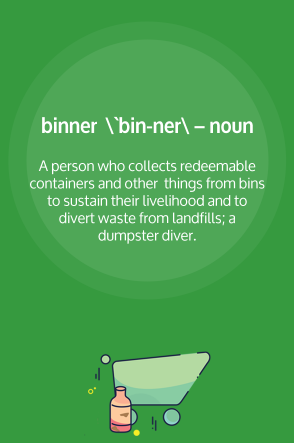
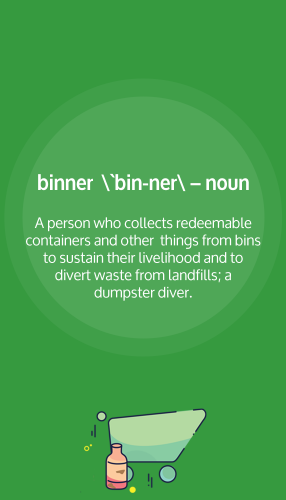
finished faq dropdown

diff --git a/public/js/main.js b/public/js/main.js
@@ -6,10 +6,13 @@ $(document).ready(function() {
 
   $('#faq').on("click", () => {
     $('#about').slideToggle();
+
+    $('#nav-back')
+    .hide()
+    .removeClass('hidden');
   });
 
   $('#nav-forward').on("click", () => {
-    $('#nav-back').removeClass("hidden");
     let progress = Number($('.progress-bar').attr('aria-valuenow'));
     progress += 25;
     showPage(progress);
@@ -22,13 +25,29 @@ $(document).ready(function() {
   });
 
   function showPage(progress) {
+    $('.progress-bar span').text(`${progress} Complete`);
+    $('.progress-bar').attr('aria-valuenow', progress);
+    $('.progress-bar').attr('style', `width: ${progress}%`);
     switch (progress) {
       case 25:
-        $('.progress-bar span').text(`${progress} Complete`);
-        $('.progress-bar').attr('aria-valuenow', progress);
+        $('#nav-back').hide();
+        $('.about-img').attr('src', "images/about-1.png");
+        break;
       case 50:
+        $('#nav-back').show();
+        $('.about-img').attr('src', "images/about-2.png");
+        break;
       case 75:
+        $('.about-img').attr('src', "images/about-3.png");
+        break;
       case 100:
+        $('.about-img').attr('src', "images/about-4.png");
+        break;
+      case 125:
+        $('#about').slideToggle(() => {
+          showPage(25);
+        });
+        break;
     }
   }
 });

diff --git a/public/css/main.scss b/public/css/main.scss
@@ -108,6 +108,13 @@ textarea {
   right: 0;
 }
 
+.about-img-space {
+  height: 620px;
+  display: flex;
+  justify-content: center;
+  align-items: center;
+}
+
 #about {
   // position: absolute;
   border: 5px solid #45b33d;
